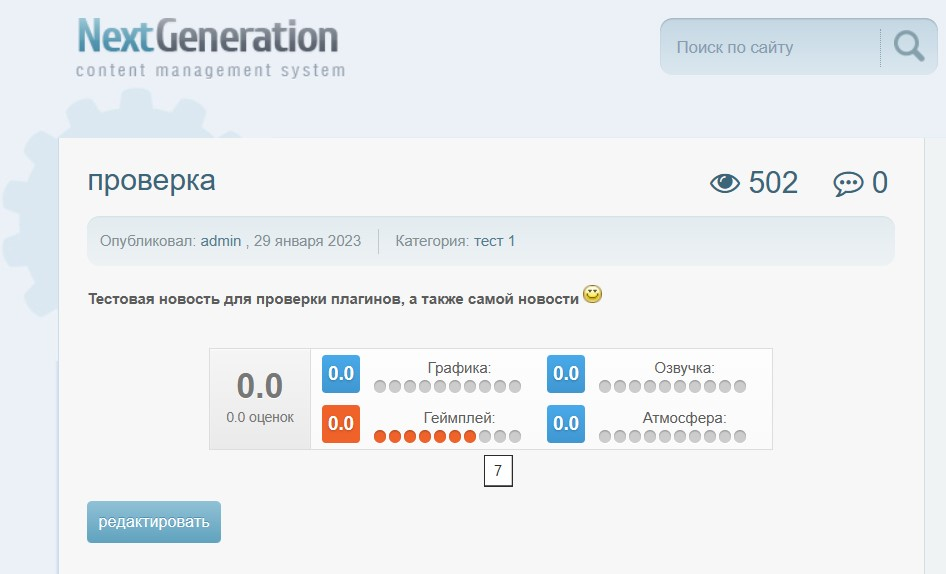
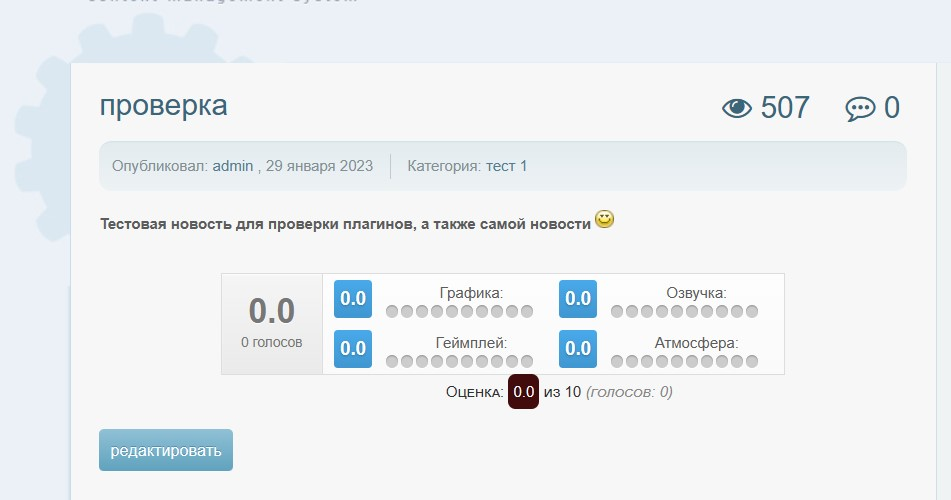
m_rating

diff --git a/lib/librpc.php b/lib/librpc.php
@@ -1,7 +1,7 @@
 <?php
 
 function mRatingGenerate($params) {
-	global $mysql, $userROW, $ip, $newsID, $config;
+	global $mysql, $userROW, $ip, $newsID, $config, $is_logged, $echo;
 	
 	$area = $params['area'];
 	$go_rate = $params['go_rate'];
@@ -9,24 +9,27 @@ function mRatingGenerate($params) {
 
 	if(!$news_id ) die("{\"error\": \"ID Новости недоступен\"}");
 	if($go_rate > 10 or $go_rate < 1 ) die("{\"error\": \"Попытка мошенничества\"}");
-
-	if(!$is_logged ) $userROW['status'] = 5;
-
-	if(!$userROW['status'] ) die("{\"error\": \"У вас не достаточно прав для голосования\"}");
+	
+	if(!pluginGetVariable('m_rating', 'guest')){
+		if(!is_array($userROW)) die("{\"error\": \"У вас не достаточно прав для голосования\"}");
+	}
 
 	if( $is_logged ) $where = 'member = '.db_squote($userROW['name']).'';
 	else $where = 'ip ='.db_squote($ip).'';
-
+	
+	$login = $userROW['name'] ? $userROW['name'] : 'гость';
 	$log = $mysql->record('SELECT * FROM ' . prefix . '_m_rating WHERE news_id ='.db_squote($news_id).' AND '.$where.'' );
 	if($log['news_id']){
 		$log['area'] = explode("|",$log['area']);
-		if(in_array($area,$log['area'])) die("{\"error\": \"Вы уже голосовали\"}");
+		if(!pluginGetVariable('m_rating', 'revote')){
+			if(in_array($area,$log['area'])) die("{\"error\": \"Вы уже голосовали\"}");
+		}
 		else{
 			$log['area'][] = $area;
 			$log['area'] = implode("|",$log['area']);
 			$mysql->query('UPDATE ' . prefix . '_m_rating SET area='.db_squote($log['area']).' WHERE news_id ='.db_squote($news_id).'' );
 		}
-	}else $mysql->query('INSERT INTO ' . prefix . '_m_rating (news_id, ip, member, area) values ('.db_squote($news_id).', '.db_squote($ip).', '.db_squote($userROW['name']).', '.db_squote($area).')' );
+	}else $mysql->query('INSERT INTO ' . prefix . '_m_rating (news_id, ip, member, area) values ('.db_squote($news_id).', '.db_squote($ip).', '.db_squote($login).', '.db_squote($area).')' );
 
 	$row = $mysql->record("SELECT m_rating FROM " . prefix . "_news where id = " . db_squote($news_id)."");
 
@@ -45,8 +48,15 @@ function mRatingGenerate($params) {
 	$row['m_rating'] = implode("||",$m_rating);
 
 	$mysql->record("UPDATE " . prefix . "_news SET m_rating=".db_squote($row['m_rating'])." where id = " . db_squote($news_id)."");
-	die("{\"error\": \"Ваш голос принят. Спасибо! Данные обновятся после перезагрузки страницы\"}");
 	
+	$is_ajax = true;
+	include_once(root . "/plugins/m_rating/m_rating.php");
+
+	$echo = m_rating_update($news_id);
+	$echo = addcslashes($echo, "\v\t\n\r\f\"\\/");
+
+	die("{\"html\":\"{$echo}\",\"error\": \"Ваш голос {$login} принят. Спасибо!\"}");
+
 }
 
 rpcRegisterFunction('plugin.m_rating.get', 'mRatingGenerate');

diff --git a/m_rating.php b/m_rating.php
@@ -3,22 +3,22 @@ if (!defined('NGCMS')) die ('HAL');
 
 include_once(root . "/plugins/m_rating/lib/class.php");
 
-class MRatingFilter extends NewsFilter {
-    function showNews($newsID, $SQLnews, &$tvars, $mode = array()) {
-		global $config, $twig, $IP, $template, $userROW, $ip, $mysql, $lang;
+function m_rating_update($news_id){
+		global $config, $twig, $template, $userROW, $ip, $mysql, $lang, $newsID;
 	
-		$row = $mysql->record("select * from " . prefix . "_news where id = " . db_squote($newsID)." LIMIT 1");
+		$row = $mysql->record("select * from " . prefix . "_news where id = " . db_squote($news_id)." LIMIT 1");
 	
 		$tpath = locatePluginTemplates(array('m_rating', ':m_rating.css'), 'm_rating', pluginGetVariable('m_rating', 'localsource'), pluginGetVariable('m_rating', 'skin') ? pluginGetVariable('m_rating', 'skin') : 'default');
 		$xt = $twig->loadTemplate($tpath['m_rating'].'m_rating.tpl');
 	
 		register_stylesheet($tpath['url::m_rating.css'].'/m_rating.css');
-	
+		
 		$rating = new m_rating($row['m_rating']);
-	
+
 		$tVars = array (
 			'id' 		=> ''.$row['id'].'',
 			'rate' 		=> ''.$rating->total['rate'].'',
+			'votes' 	=> ''.$rating->total['votes'].'',
 			'video' 	=> ''.$rating->ratebar('video').'',
 			'gameplay' 	=> ''.$rating->ratebar('gameplay').'',
 			'sound' 	=> ''.$rating->ratebar('sound').'',
@@ -34,11 +34,25 @@ class MRatingFilter extends NewsFilter {
 			'tsound' 	=> ''.$rating->votes('sound').'',
 			'tatm' 		=> ''.$rating->votes('atm').'',
 
-			'news_id' => $newsID,
+			'news_id' => $news_id,
 			'home' => home,
 		);
 	
-		$tvars['vars']['m_rating'] = $xt->render($tVars);
+		if(!$is_ajax)
+		$echo = $xt->render($tVars);
+	return $echo;
+}
+
+class MRatingFilter extends NewsFilter {
+    function showNews($newsID, $SQLnews, &$tvars, $mode = array()) {
+		global $config, $twig, $template, $userROW, $ip, $mysql, $lang;
+		
+		$row = $mysql->record("select * from " . prefix . "_news where id = " . db_squote($news_id)." LIMIT 1");
+		$rating = new m_rating($row['m_rating']);
+	
+		$tvars['vars']['m_rating'] = '<div class="m-rating-area ignore-select" data-id="'.$newsID.'">'.m_rating_update($newsID).'</div>';
+		$tvars['vars']['m_rating_rate'] = $rating->total['rate'];
+		$tvars['vars']['m_rating_vote'] = $rating->total['votes'];
 	
 	}
 }

diff --git a/config.php b/config.php
@@ -20,7 +20,7 @@ function about()
 	$tVars = array();
 	$xg = $twig->loadTemplate($tpath['main'].'main.tpl');
 	
-	$about = 'версия 0.1';
+	$about = 'версия 0.3';
 	
 	$tVars = array(
 		'global' => $lang['m_rating']['about'],
@@ -38,16 +38,25 @@ function main()
 	$breadcrumb = breadcrumb('<i class="fa fa-star-half-o btn-position"></i><span class="text-semibold">'.$lang['m_rating']['m_rating'].'</span>', array('?mod=extras' => '<i class="fa fa-puzzle-piece btn-position"></i>'.$lang['extras'].'', '?mod=extra-config&plugin=m_rating' => '<i class="fa fa-star-half-o btn-position"></i>'.$lang['m_rating']['m_rating'].'' ) );
 
 	if (isset($_REQUEST['submit'])){
+		pluginSetVariable('m_rating', 'guest', (int)$_REQUEST['guest']);
+		pluginSetVariable('m_rating', 'revote', (int)$_REQUEST['revote']);
 		pluginSetVariable('m_rating', 'localsource', (int)$_REQUEST['localsource']);
 		pluginsSaveConfig();
 		msg(array("type" => "info", "info" => $lang['m_rating']['save']));
 		return print_msg( 'info', $lang['m_rating']['m_rating'], $lang['m_rating']['save'], 'javascript:history.go(-1)' );
 	}
 	
+	$guest = pluginGetVariable('m_rating', 'guest');
+	$guest = '<option value="0" '.($guest==0?'selected':'').'>'.$lang['noa'].'</option><option value="1" '.($guest==1?'selected':'').'>'.$lang['yesa'].'</option>';
+	$revote = pluginGetVariable('m_rating', 'revote');
+	$revote = '<option value="0" '.($revote==0?'selected':'').'>'.$lang['noa'].'</option><option value="1" '.($revote==1?'selected':'').'>'.$lang['yesa'].'</option>';
+
 	$xt = $twig->loadTemplate($tpath['general.from'].'general.from.tpl');
 	$xg = $twig->loadTemplate($tpath['main'].'main.tpl');
 	
 	$tVars = array(
+		'guest'   	=> $guest,
+		'revote'   	=> $revote,
 		'localsource'   => MakeDropDown(array(0 => 'Шаблон сайта', 1 => 'Плагина'), 'localsource', (int)pluginGetVariable('m_rating', 'localsource')),
 	);
 	

diff --git a/install.php b/install.php
@@ -28,7 +28,7 @@ function plugin_m_rating_install($action) {
 				array('action' => 'cmodify', 'name' => 'news_id', 'type' => 'int(6)', 'params' => 'NOT NULL'),
 				array('action' => 'cmodify', 'name' => 'ip', 'type' => 'varchar(15)', 'params' => 'NOT NULL'),
 				array('action' => 'cmodify', 'name' => 'member', 'type' => 'varchar(70)', 'params' => 'NOT NULL'),
-				array('action' => 'cmodify', 'name' => 'area', 'type' => 'varchar(255)', 'params' => 'NOT NULL')
+				array('action' => 'cmodify', 'name' => 'area', 'type' => 'text', 'params' => 'NOT NULL')
 			)
 		)
 	);
@@ -44,6 +44,16 @@ function plugin_m_rating_install($action) {
 			} else {
 				return false;
 			}
+			// Now we need to set some default params
+			$params = array(
+				'localsource'   => 1,
+				'revote' 		=> 0,
+				'guest'   		=> 0,
+			);
+			foreach ($params as $k => $v) {
+				extra_set_param('m_rating', $k, $v);
+			}
+			extra_commit_changes();
 			break;
 	}
 

diff --git a/README.md b/README.md
@@ -8,21 +8,22 @@
 
 Возможности плагина:
 - Защита от накруток.
-- Выставлять рейтинг могут только зарегистрированные пользователи
+- Проверка по ИП или по имени голосовавшего.
+- Возможность повторного голосования (задается в настройках)
+- Возможность голосовать незарегестрированным пользователям (задается в настройках)
+- Обновление рейтинга в реальном времени
 
 -------------------
+Настройки плагина
+![](https://github.com/KachalkinGeorg/m_rating/blob/main/m_rating.jpg?raw=true)
 
-Минусы:
-- Вводимые данные появятся после перезагрузки страниц
-
--------------------
 Просмотр в полной новости:
 ![](https://github.com/KachalkinGeorg/m_rating/blob/main/Screenshot_1.jpg?raw=true)
 
 При клики на рейтиинг:
 ![](https://github.com/KachalkinGeorg/m_rating/blob/main/Screenshot_2.jpg?raw=true)
 
-После обновления страницы:
+Если в настройках плагина стоит запрет на повторное голосование и при клике на ту же шкалу рейтинга:
 ![](https://github.com/KachalkinGeorg/m_rating/blob/main/Screenshot_3.jpg?raw=true)
 
 -------------------
